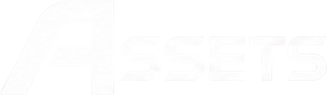
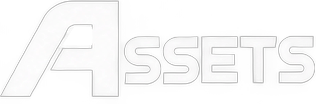
Deck keys from Colin's new lettering sheet: all 12 sections including Characters and Tutorials; Workbench is now Illustrations
Claude-Session: https://claude.ai/code/session_01McRD2PT414eMdAMdSUCz7Q

diff --git a/site/app.js b/site/app.js
@@ -1,4 +1,4 @@
-import { SITE, SECTIONS, PLAY, ASSETS, SCRIPTS, TUTORIALS, SUPPORT, SOCIALS, WEB, STUDIOS, MOTION, WORKBENCH, WRITING, GUMROAD, SONGS, SFX, ABOUT } from './content.js?v=621f0a64';
+import { SITE, SECTIONS, PLAY, ASSETS, SCRIPTS, TUTORIALS, SUPPORT, SOCIALS, WEB, STUDIOS, MOTION, WORKBENCH, WRITING, GUMROAD, SONGS, SFX, ABOUT } from './content.js?v=008db562';
 import { onAccent, nextPreset, randomAccent, initTheme, setTheme, sectionColours } from './palette.js?v=8afb0eea';
 
 const BASE = window.BASE || '/';
@@ -609,8 +609,8 @@ const deck = $('.deck-keys');
 // image, applied as a mask, so the key paints it -- quiet by default, lit in the accent
 // when it is the section you are on, right in either theme. `ar` is each word's width
 // over its height as cut from his strip, so every word keeps the same letter size.
-const KEYART = { play: 3, assets: 3.27, motion: 3.07, web: 2.64, scripts: 3.17,
-  studios: 2.86, writing: 3.196, audio: 2.533, workbench: 3.505, about: 2.215 };
+const KEYART = { play: 2.913, assets: 3.038, motion: 2.923, web: 2.625, scripts: 2.971, studios: 2.962, writing: 3.24,
+  audio: 2.673, workbench: 3.225, about: 2.647, characters: 3.373, tutorials: 2.951 };
 deck.innerHTML = SECTIONS.map(s => KEYART[s.key]
   ? `<a class="key art" href="${s.key}" data-key="${s.key}" aria-label="${esc(s.label)}"><span class="gw"><i class="glyph" style="--art:url(${new URL(`site/keys/${s.key}.webp`, document.baseURI).href});--ar:${KEYART[s.key]}"></i></span></a>`
   : `<a class="key" href="${s.key}" data-key="${s.key}"><b>${esc(s.label)}</b></a>`).join('');

diff --git a/site/content.js b/site/content.js
@@ -43,7 +43,7 @@ export const SECTIONS = [
   { key: 'studios',   label: 'Studios',   tier: 2, lat:  52, lon:  -70, blurb: 'SeaWillow, Majia and Unknown.' },
   { key: 'writing',   label: 'Thoughts',   tier: 2, lat:  30, lon:  165, blurb: 'Essays about art and making, read aloud.' },
   { key: 'audio',     label: 'Audio',     tier: 2, lat: -30, lon:  -95, blurb: 'Game soundtracks, and free sound effects to download.' },
-  { key: 'workbench', label: 'Workbench', tier: 3, lat: -55, lon:  -30, blurb: 'Illustration, logos, and everything made by hand.' },
+  { key: 'workbench', label: 'Illustrations', tier: 3, lat: -55, lon:  -30, blurb: 'Illustration, logos, and everything made by hand.' },
   { key: 'tutorials', label: 'Tutorials', tier: 1, lat:  45, lon:  130, blurb: 'How the games and characters are made, step by step. Free, with the files.' },
   { key: 'about',     label: 'Colin',     tier: 3, lat:  -8, lon: -170, blurb: 'Who made this.' },
 ];

diff --git a/index.html b/index.html
@@ -52,6 +52,6 @@
   <main id="view" tabindex="-1"></main>
 
   <noscript><p style="padding:2rem">This site needs JavaScript. The <a href="classic.html">previous portfolio</a> works without it.</p></noscript>
-  <script type="module" src="site/app.js?v=28320b3b"></script>
+  <script type="module" src="site/app.js?v=22dfdbd6"></script>
 </body>
 </html>
